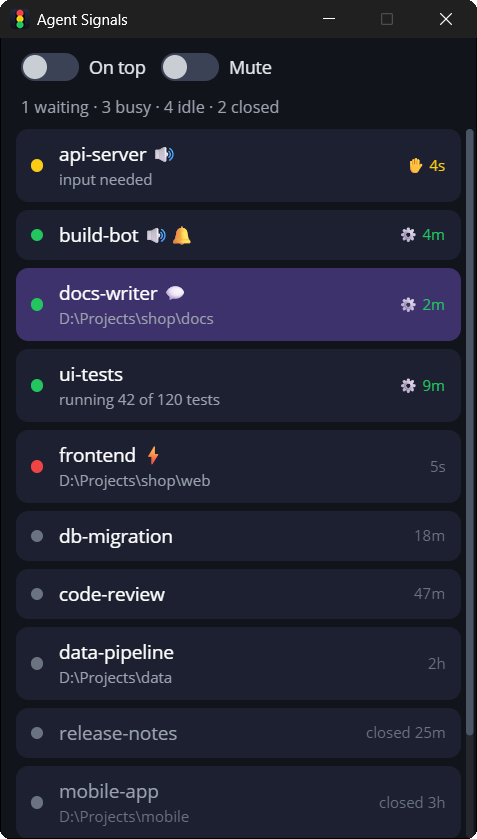
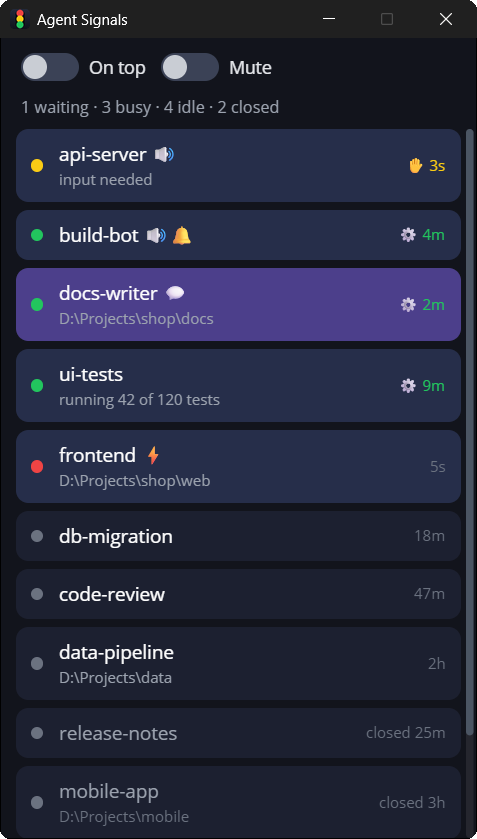
Rows of sessions that need a look (waiting, working, finished unseen) are a little brighter and bluer
Claude-Session: https://claude.ai/code/session_01MRKX6dThumLK7V6QQPno4S

diff --git a/src/lib.rs b/src/lib.rs
@@ -222,15 +222,20 @@ const TINTS: [(&str, Option<u32>); 9] = [
     ("Slate", Some(0x64748B)),
 ];
 const ROW: u32 = 0x1C2030;
+/// The row of a session that needs a look (waiting, working, finished unseen): a little brighter
+/// and bluer than the resting row.
+const ROW_ACTIVE: u32 = 0x262E4A;
 const SWATCH: f32 = 26.0;
 const PALETTE_WIDTH: f32 = 9.0 * SWATCH + 8.0 * 6.0 + 2.0 * 12.0 + 8.0;
 
-/// A session row's background: the plain row, or its tint mixed into it (30 %) so text stays readable.
-fn row_color(tint: Option<u32>) -> Color {
-    let Some(t) = tint else { return hex(ROW) };
+/// A session row's background: the resting or the active row, with its tint mixed in (30 %, 38 %
+/// when active) so text stays readable.
+fn row_color(tint: Option<u32>, active: bool) -> Color {
+    let (base, amount) = if active { (ROW_ACTIVE, 0.38) } else { (ROW, 0.3) };
+    let Some(t) = tint else { return hex(base) };
     let mix = |shift: u32| {
-        let (row, tint) = (((ROW >> shift) & 0xFF) as f32, ((t >> shift) & 0xFF) as f32);
-        (row + (tint - row) * 0.3) as u32
+        let (row, tint) = (((base >> shift) & 0xFF) as f32, ((t >> shift) & 0xFF) as f32);
+        (row + (tint - row) * amount) as u32
     };
     hex(mix(16) << 16 | mix(8) << 8 | mix(0))
 }
@@ -464,7 +469,11 @@ fn session_row(pid: u32, name: String) -> Build<SkiaShape> {
     SkiaShape::new()
         .corner_radius(10)
         .background_color(hex(ROW))
-        .observe(move |me, app: &App| me.set_background_color(row_color(app.tint(&tint))))
+        .observe(move |me, app: &App| {
+            // Brighter while it needs a look: not idle, or finished while you looked elsewhere.
+            let active = app.session(pid).is_some_and(|s| s.status != "idle" || app.unseen.contains(&s.id));
+            me.set_background_color(row_color(app.tint(&tint), active));
+        })
         .padding((12, 10, 12, 10))
         .fill_x()
         .accessibility_role(Aria::BUTTON)
@@ -540,7 +549,7 @@ fn closed_row(id: String, name: String) -> Build<SkiaShape> {
     SkiaShape::new()
         .corner_radius(10)
         .background_color(hex(ROW))
-        .observe(move |me, app: &App| me.set_background_color(row_color(app.tint(&tint))))
+        .observe(move |me, app: &App| me.set_background_color(row_color(app.tint(&tint), false)))
         .padding((12, 10, 12, 10))
         .fill_x()
         .accessibility_role(Aria::BUTTON)

diff --git a/README.md b/README.md
@@ -59,7 +59,8 @@ To have Agent Signals reopen them there too, set `"reopen_home_in"` to that fold
 `%APPDATA%\AgentSignals\sessions.json` on Windows, `"/Users/<you>/Agents"` in
 `~/Library/Application Support/AgentSignals/sessions.json` on macOS).
 
-**One row per Claude Code session**, in this order: waiting for you first, then working, then idle
+**One row per Claude Code session**; the rows of sessions that need a look (waiting, working, finished
+unseen) are a little brighter than idle and closed ones. In this order: waiting for you first, then working, then idle
 with the one that finished last on top, then closed with the one closed last on top.
 
 - **Click** a row: its terminal tab comes to the front. Click a closed (gray) row and it opens
